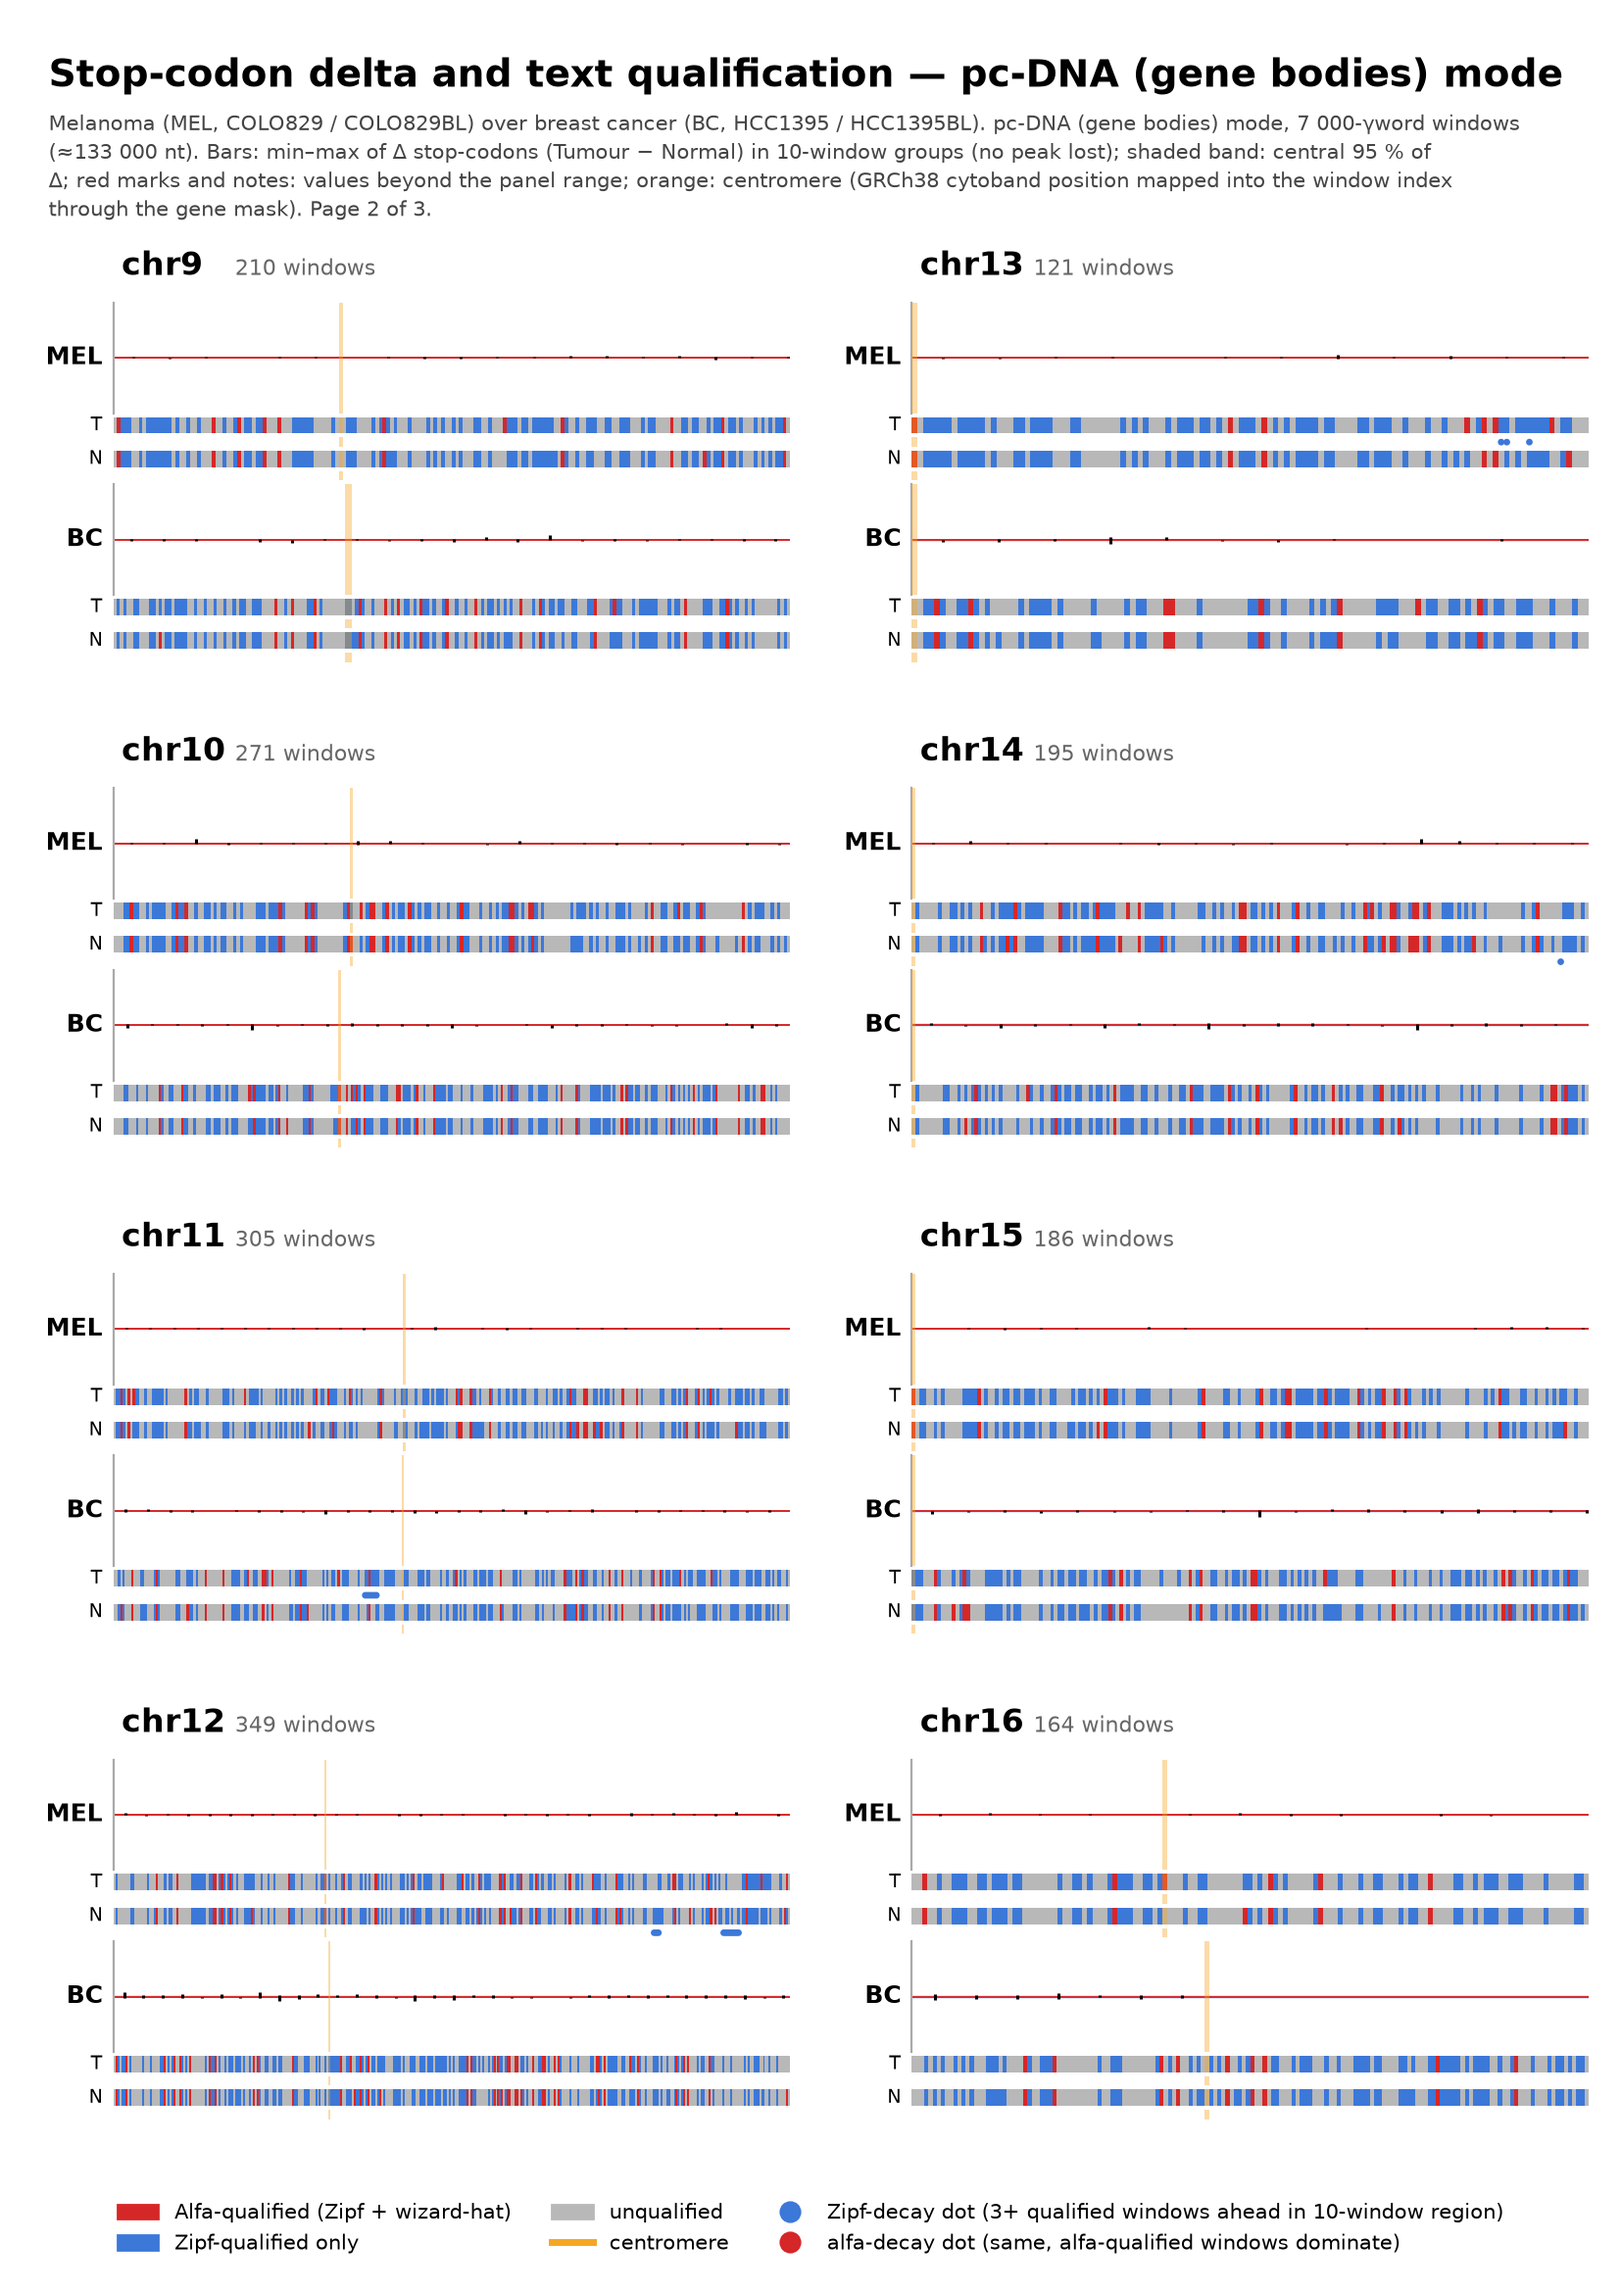
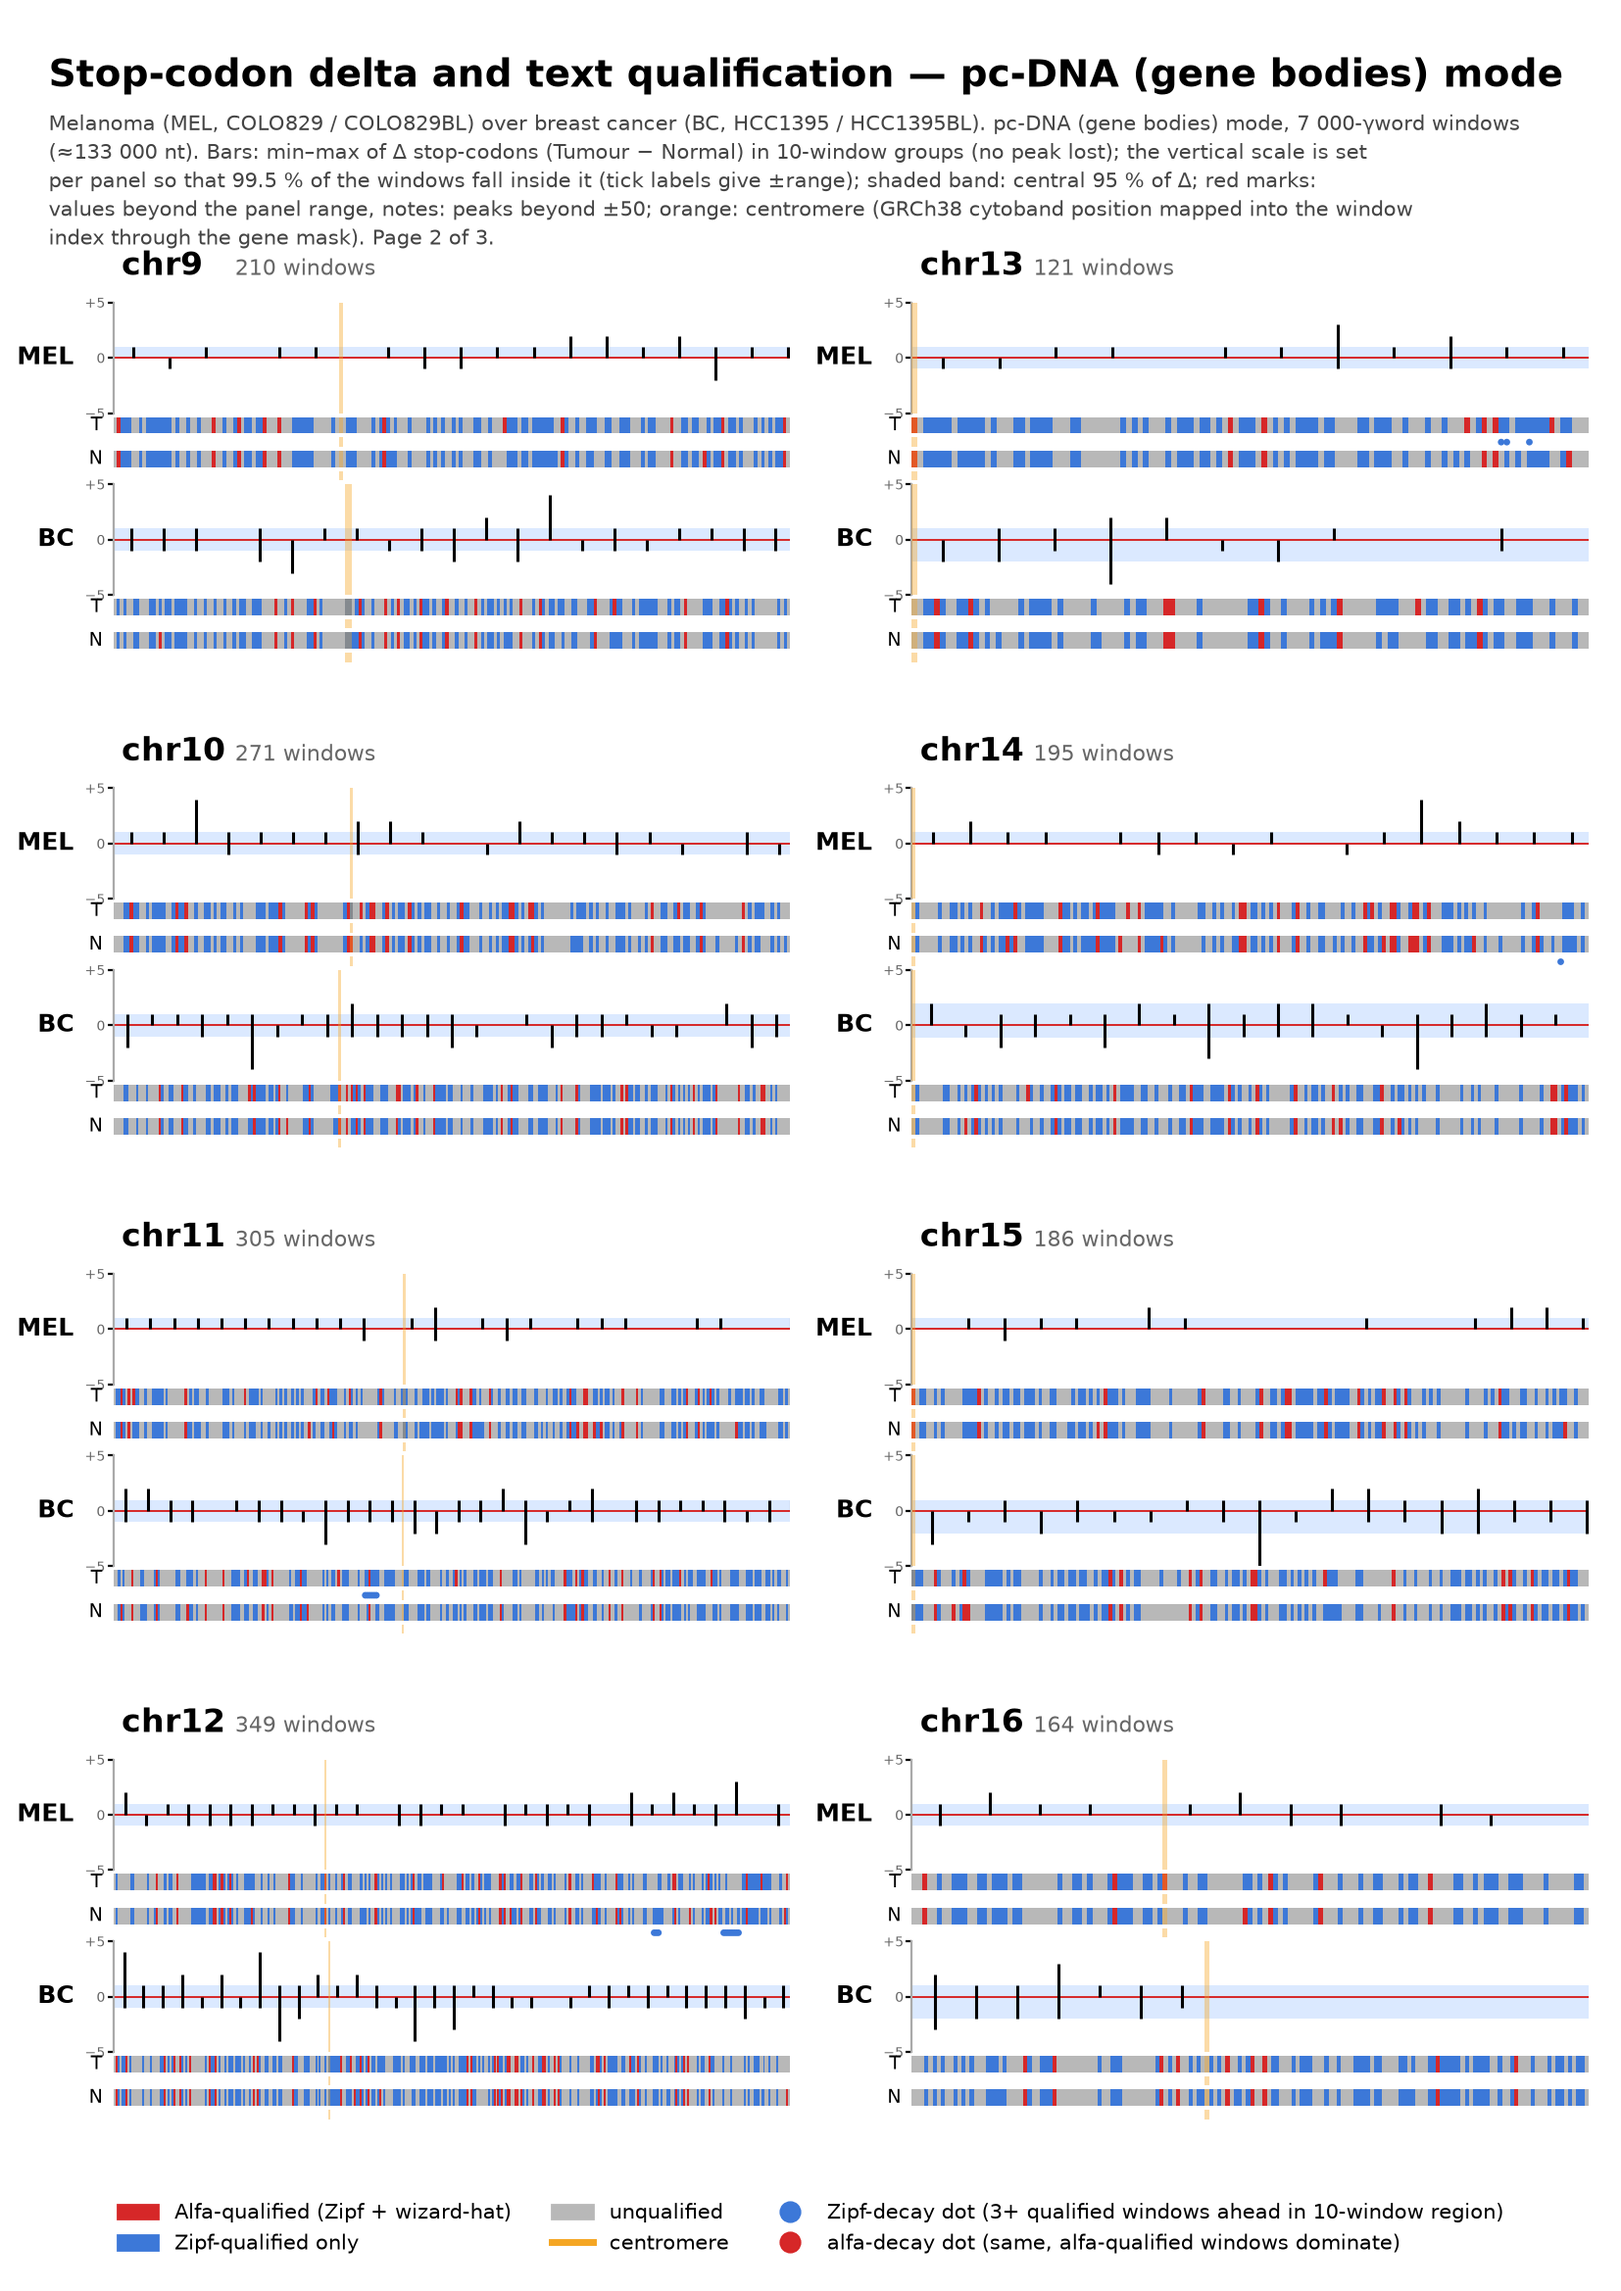
Figures: per-panel vertical scale (99.5 % of |delta| inside), integer ticks, notes only for peaks beyond 50

diff --git a/figures/make_figures.py b/figures/make_figures.py
@@ -14,6 +14,7 @@ matplotlib.use("Agg")
 import matplotlib.pyplot as plt
 from matplotlib.patches import Patch
 from matplotlib.lines import Line2D
+from matplotlib.ticker import MaxNLocator
 
 DATASETS = {
     "v1": dict(bc_density="BreastCancer_Normal_vs_Tumor", bc_alpha="BreastCancer", mel_density="Melanoma_Normal_vs_Tumor", mel_alpha="Melanoma",
@@ -254,12 +255,12 @@ def dnascope(exp, ds, out, pair_key, sample_label, pair_ids, chrom, mode, name):
     ax = fig.add_subplot(gs[0]); ax_t = fig.add_subplot(gs[1]); dot_t = fig.add_subplot(gs[2]); ax_n = fig.add_subplot(gs[3]); dot_n = fig.add_subplot(gs[4])
     lo, hi = percentile(d, 2.5), percentile(d, 97.5)
     ax.axhspan(lo, hi, color=BAND, lw=0, zorder=0)
-    ylim = max(50, 4 * max(abs(lo), abs(hi)))
+    ylim = max(10, int(percentile([abs(v) for v in d], 99.5) + 0.999))   # per-panel scale: 99.5 % of |Δ| inside, floor ±10
     clipped = [max(-ylim, min(ylim, v)) for v in d]
     ax.plot(range(n), clipped, color="black", lw=0.8, zorder=2); ax.axhline(0, color=RED, lw=1, zorder=1)
     off = [(i, v) for i, v in enumerate(d) if abs(v) > ylim]
     for i, v in off: ax.plot(i, ylim if v > 0 else -ylim, marker="^" if v > 0 else "v", color=RED, ms=5, zorder=3)
-    ax.set_ylim(-ylim, ylim)
+    ax.set_ylim(-ylim, ylim); ax.yaxis.set_major_locator(MaxNLocator(integer=True))
     if off:
         fig.text(0.5, 0.875, "off scale (clipped, marked ▲▼): " + ", ".join(f"window {i + 1}: {v:+d}" for i, v in off[:6]) + (" …" if len(off) > 6 else ""),
                  ha="center", fontsize=10, color=RED)
@@ -291,7 +292,7 @@ def panel(fig, gs_cell, exp, ds, chrom, mode):
         rows = alpha_rows(exp, ds[pair_key], mode, chrom); d = rows["delta"]; n = len(d)
         a, bt, dt, bn, dn = axes[5 * k: 5 * k + 5]
         lo, hi = percentile(d, 2.5), percentile(d, 97.5)
-        ylim = max(50, 4 * max(abs(lo), abs(hi)))
+        ylim = max(5, int(percentile([abs(v) for v in d], 99.5) + 0.999))   # per-panel scale: 99.5 % of |Δ| inside, floor ±5
         a.axhspan(lo, hi, color=BAND, lw=0, zorder=0); a.axhline(0, color=RED, lw=0.7, zorder=1)
         off = []
         for i, mn, mx in grouped_minmax(d):
@@ -299,8 +300,9 @@ def panel(fig, gs_cell, exp, ds, chrom, mode):
             a.plot([i + 5, i + 5], [cmn, cmx], color="black", lw=1.1, solid_capstyle="butt", zorder=2)
             if mx > ylim: a.plot(i + 5, ylim, marker="^", color=RED, ms=3, zorder=3); off.append(mx)
             if mn < -ylim: a.plot(i + 5, -ylim, marker="v", color=RED, ms=3, zorder=3); off.append(mn)
-        if off: notes.append(f"{label} {max(off, key=abs):+d}")
-        a.set_xlim(-0.5, n - 0.5); a.set_ylim(-ylim, ylim); a.set_xticks([]); a.set_yticks([])
+        if off and max(abs(v) for v in off) >= 50: notes.append(f"{label} {max(off, key=abs):+d}")
+        a.set_xlim(-0.5, n - 0.5); a.set_ylim(-ylim, ylim); a.set_xticks([])
+        a.set_yticks([-ylim, 0, ylim]); a.set_yticklabels([f"−{ylim}", "0", f"+{ylim}"], fontsize=5, color="#666"); a.tick_params(axis="y", length=2, pad=1)
         a.set_ylabel(label, rotation=0, ha="right", va="center", fontsize=9, weight="bold")
         for sp in ("top", "right", "bottom"): a.spines[sp].set_visible(False)
         a.spines["left"].set_color("#aaa")
@@ -325,7 +327,7 @@ def appendix(exp, ds, out, mode, name):
         fig.suptitle(f"Stop-codon delta and text qualification — {MODE_LABEL[mode]} mode", fontsize=14, weight="bold", x=0.03, ha="left", y=0.975)
         sub = ("Melanoma (MEL, COLO829 / COLO829BL) over breast cancer (BC, HCC1395 / HCC1395BL). "
                f"{MODE_LABEL[mode]} mode, 7 000-γword windows (≈133 000 nt). Bars: min–max of Δ stop-codons (Tumour − Normal) in 10-window groups "
-               "(no peak lost); shaded band: central 95 % of Δ; red marks and notes: values beyond the panel range; orange: centromere "
+               "(no peak lost); the vertical scale is set per panel so that 99.5 % of the windows fall inside it (tick labels give ±range); shaded band: central 95 % of Δ; red marks: values beyond the panel range, notes: peaks beyond ±50; orange: centromere "
                "(GRCh38 cytoband position mapped into the window index through the gene mask). "
                f"Page {p} of 3.")
         fig.text(0.03, 0.952, chr(10).join(textwrap.wrap(sub, 128)), fontsize=7.5, color="#444", va="top", linespacing=1.4)
